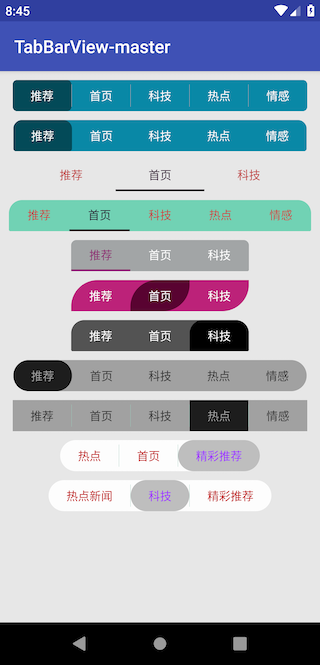
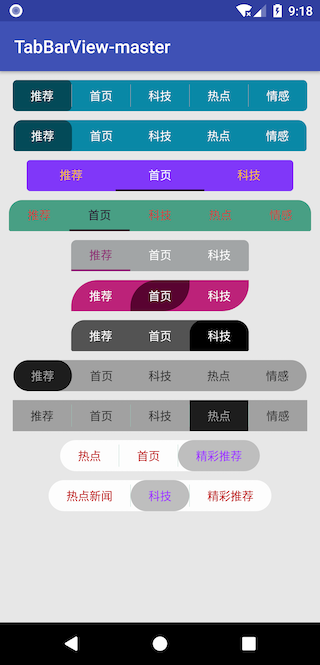
push

diff --git a/README.md b/README.md
@@ -76,3 +76,5 @@ Step 2. Add the dependency
 * tbv_padding_left_right  子选项左右方向内部边距
 * tbv_default_checked_item_position 默认选中子选项位置
 * tbv_is_bottom_bar_style 设置选中时的状态底部是否为条状样式
+* tbv_whenBottomBarStyleHeight 设置当tbv_is_bottom_bar_style=true时的bottomBar的高度
+* tbv_isApplyContentRadius 是否将弧度值应用到总TabBarView
